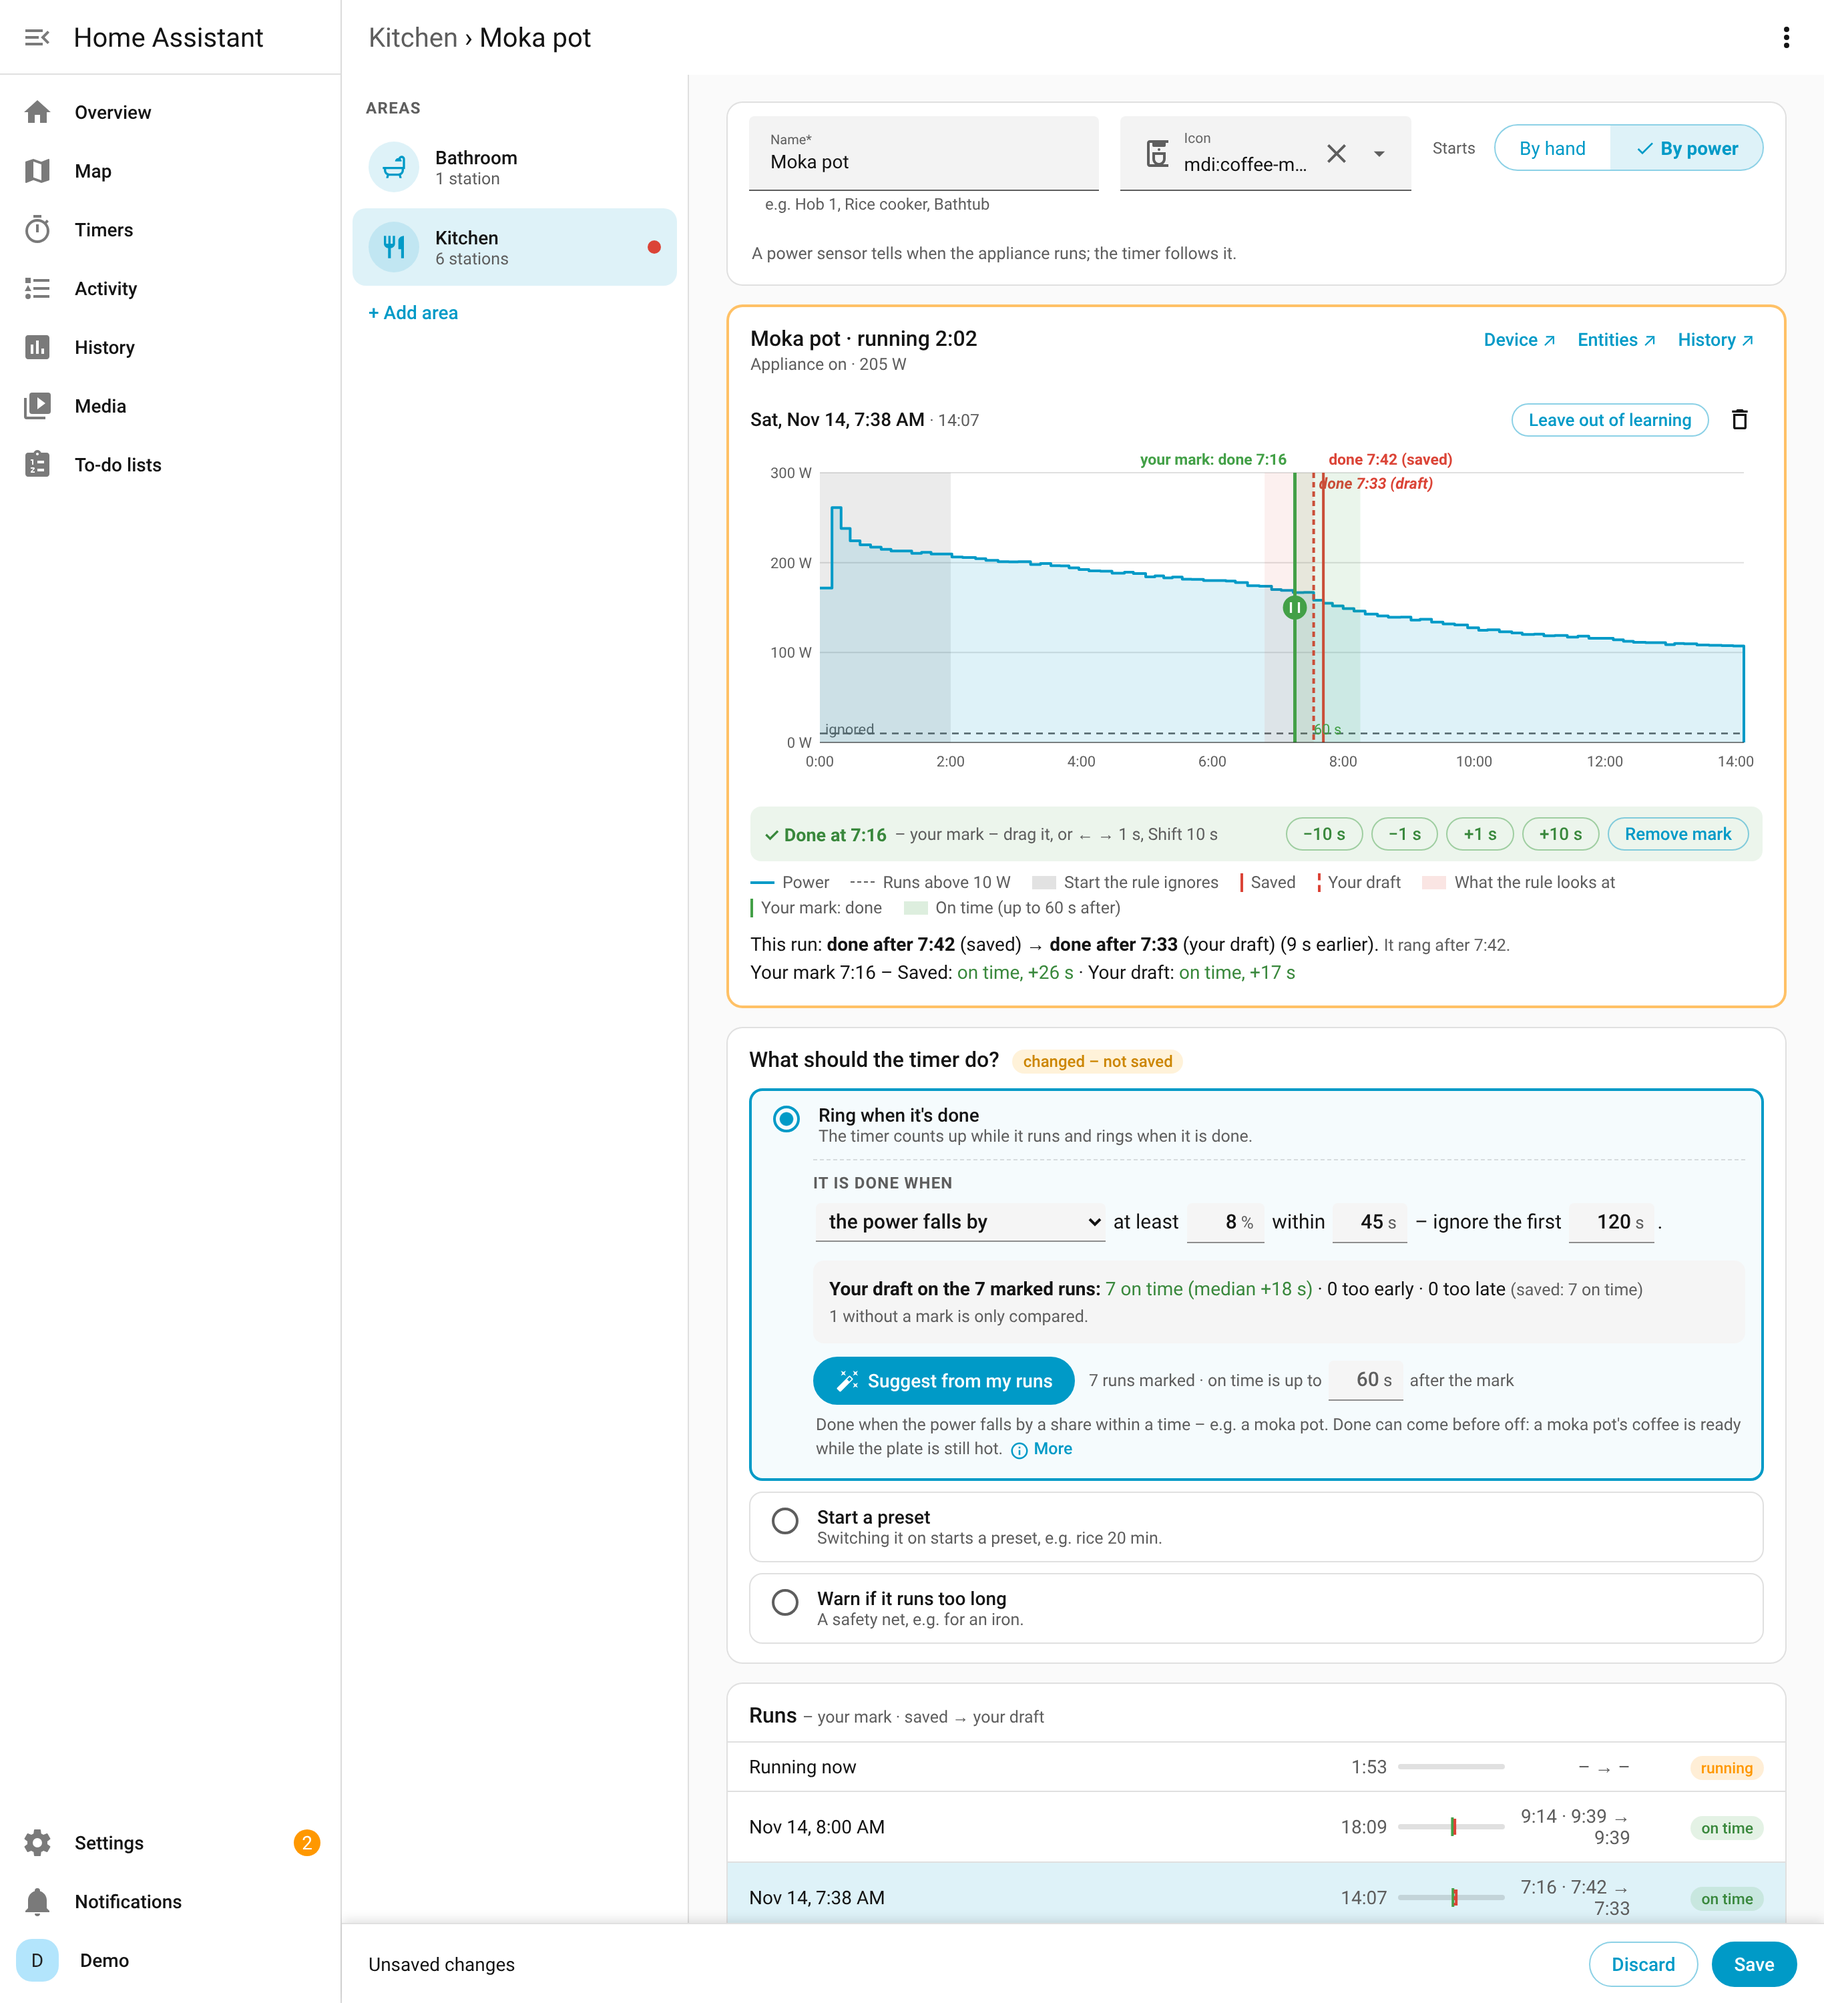
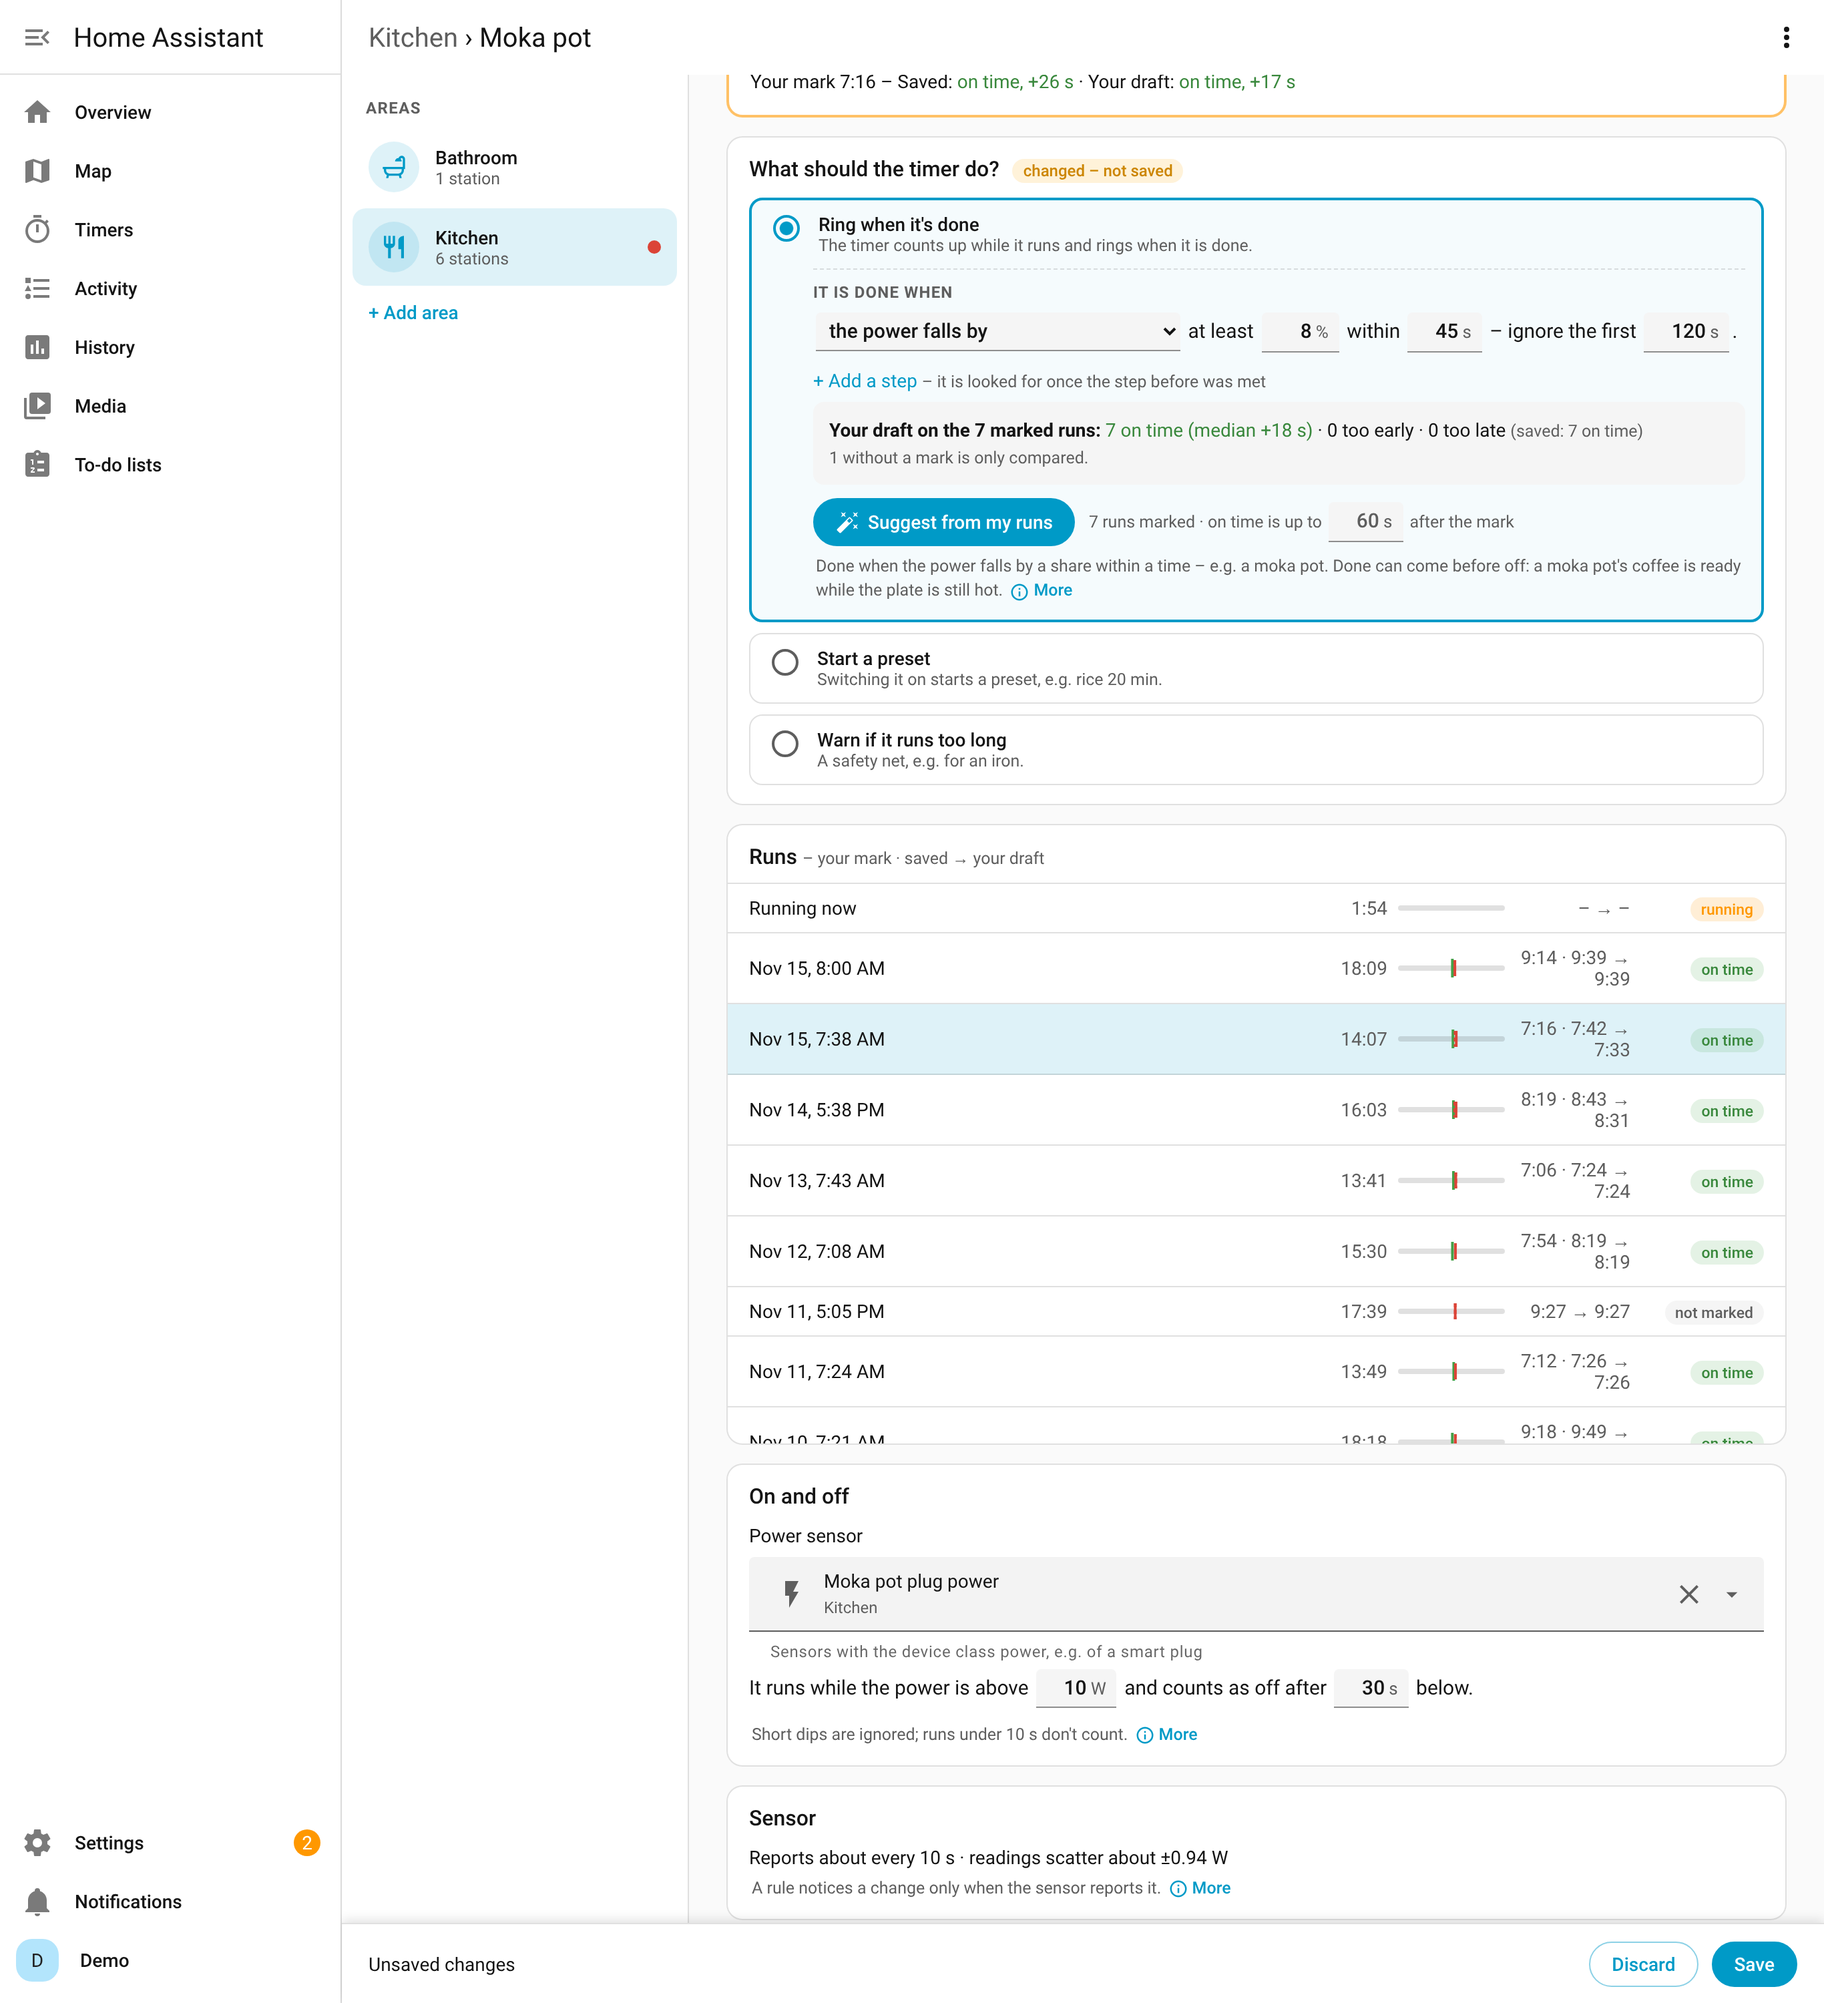
Screenshots: new images for steps and the current panel
- New docs/images/panel-steps.png in docs/power.md › Steps: "it has run for
  120 s, then the power falls by …" with the pins on the moka pot's curve.
- All screenshots retaken on a fresh local instance (the rule list with the
  trend directions, "+ Add a step", the learning section as it is now).
- shoot.py sets up a meaningful two-step example for the image and scrolls
  the page back up before taking it; README image links updated.

Claude-Session: https://claude.ai/code/session_013QxJ3mY44sKf5QDsVZqSUV

diff --git a/scripts/instance/shoot.py b/scripts/instance/shoot.py
@@ -164,22 +164,32 @@ def main() -> None:
             if seeded.count():
                 seeded.first.click()
                 page.wait_for_timeout(1500)
-            first = page.locator("home-timer-panel .step select.inlsel").first.input_value()
             page.locator("home-timer-panel .addstep button").click()
             page.wait_for_timeout(2500)
             steps = page.locator("home-timer-panel .steps.many .step")
             check("+ Add a step: two steps joined by then", steps.count() == 2 and page.locator("home-timer-panel .then").count() == 1, steps.count())
-            check("steps: the curve pins where a step was met", page.locator("home-timer-panel svg.chart g.pin").count() >= 1)
+            # for the docs: "it has run for 2 min, then the power falls by …" – the drop only counts once 2 min are past
+            steps.nth(1).locator("select.inlsel").select_option("drop")
+            page.wait_for_timeout(400)
+            steps.nth(0).locator("select.inlsel").select_option("time")
+            page.wait_for_timeout(400)
+            steps.nth(0).locator(".sentence input").first.fill("120")
+            page.wait_for_timeout(2500)
+            check("steps: the curve pins where each step was met", page.locator("home-timer-panel svg.chart g.pin").count() == 2)
+            page.set_viewport_size({"width": 1366, "height": 1640})
+            page.locator("home-timer-panel .pane").first.evaluate("el => el.scrollTo(0, 0)")  # the selects scrolled it
+            page.wait_for_timeout(600)
             page.screenshot(path=OUT / "panel-steps.png")
+            types = [steps.nth(i).locator("select.inlsel").input_value() for i in range(2)]
             steps.nth(1).locator(".tools button").first.click()  # ▲
             page.wait_for_timeout(600)
             moved = [steps.nth(i).locator("select.inlsel").input_value() for i in range(2)]
-            check("▲ moves a step up", moved == ["trend", first], moved)
+            check("▲ moves a step up", moved == types[::-1], moved)
             # dragging the handle onto the other step moves it back
             steps.nth(1).locator(".handle").drag_to(steps.nth(0))
             page.wait_for_timeout(600)
             dragged = [steps.nth(i).locator("select.inlsel").input_value() for i in range(2)]
-            check("dragging moves a step", dragged == [first, "trend"], dragged)
+            check("dragging moves a step", dragged == types, dragged)
             check("a sequence offers no \"switches off\"", steps.nth(1).locator("option[value=off]").count() == 0)
             steps.nth(1).locator(".tools button").nth(2).click()  # ×
             page.wait_for_timeout(600)

diff --git a/docs/power.md b/docs/power.md
@@ -56,6 +56,8 @@ Every rule except *when it switches off* **ignores the first seconds** of a run 
 
 When one rule is not enough – it would also fire earlier, at a dip that is not the end – the done rule can be a **sequence of steps**: *it is done after these steps*, joined by *then* (**+ Add a step**, up to 8). Each step is looked for once the step before was met, and it looks at nothing before that moment – its *ignore the first …* counts from there; *after a time* and *after energy* count from the run's start. The timer rings when the last step is met. Example: *the power pauses, then the power falls by at least 30 % within 30 s* – a dip before the pause does not count. Move a step with ▲ ▼ or drag it; × removes it. *When it switches off* cannot be a step of a sequence. The timer's sensor shows how many steps are met (`steps_met`), and the curve shows where each step was met (numbered pins).
 
+![Steps: "it has run for 120 s, then the power falls by at least 10 % within 60 s" – the pins on the moka pot's curve show where each step was met](images/panel-steps.png)
+
 ## The station's entities
 
 | Entity | Description |

diff --git a/README.md b/README.md
@@ -26,7 +26,7 @@
 
 No custom card needed – a dashboard of plain tile cards:
 
-![A dashboard: Hob 1 with its presets, appliances on smart plugs, quick timers and the ringing timers as a to-do list](https://raw.githubusercontent.com/financelurker/ha-home-timer/main/docs/images/dashboard.png?v=70f44ac7ac)
+![A dashboard: Hob 1 with its presets, appliances on smart plugs, quick timers and the ringing timers as a to-do list](https://raw.githubusercontent.com/financelurker/ha-home-timer/main/docs/images/dashboard.png?v=7049b7bcbe)
 
 ## Installation
 
